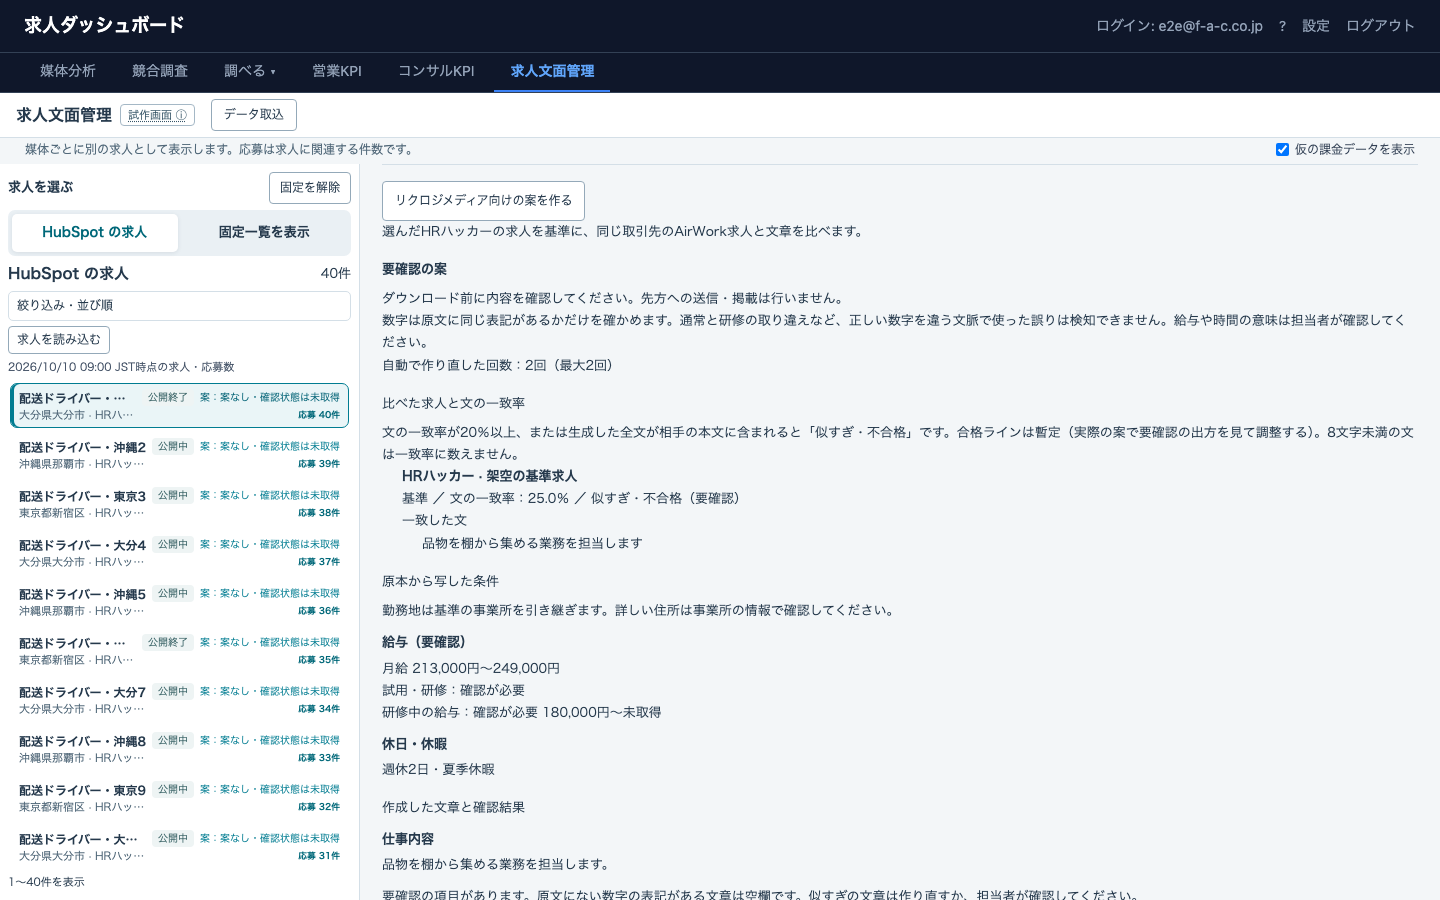
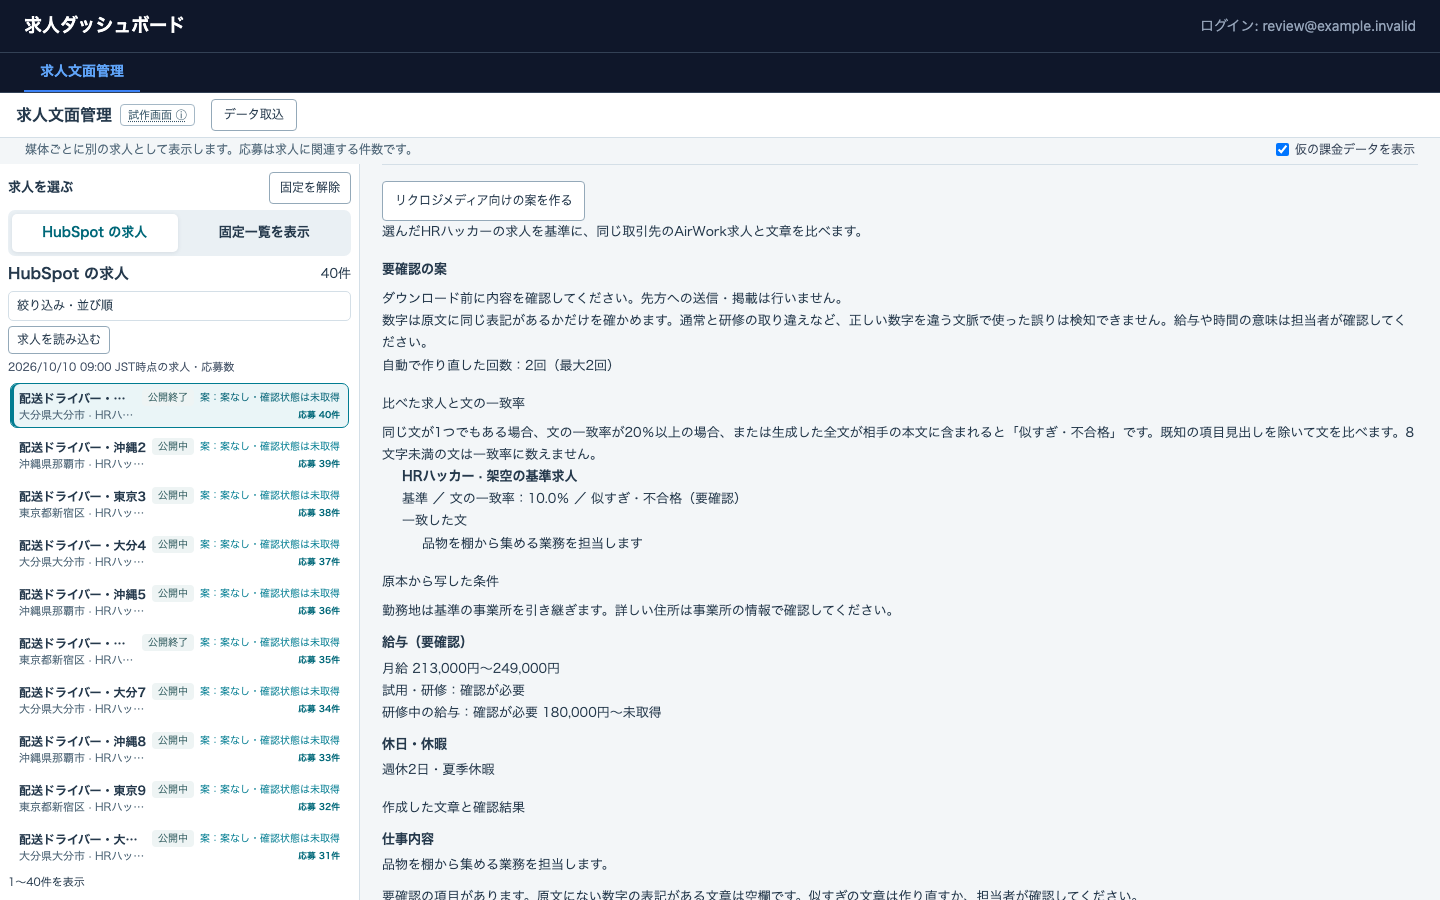
基準本文の見出しによる一致文の見逃しと深夜区分の表示を修正

diff --git a/frontend/src/screens/job-copy/RikuroziDraftPanel.tsx b/frontend/src/screens/job-copy/RikuroziDraftPanel.tsx
@@ -42,7 +42,7 @@ export function RikuroziDraftPanel({ listingId }: { listingId: string }) {
       <p>数字は原文に同じ表記があるかだけを確かめます。通常と研修の取り違えなど、正しい数字を違う文脈で使った誤りは検知できません。給与や時間の意味は担当者が確認してください。</p>
       <p>自動で作り直した回数：{String(draft.regeneration_count ?? 0)}回（最大2回）</p>
       <h4>比べた求人と文の一致率</h4>
-      <p>文の一致率が{(draft.threshold * 100).toLocaleString('ja-JP', { maximumSignificantDigits: 6 })}％以上、または生成した全文が相手の本文に含まれると「似すぎ・不合格」です。合格ラインは暫定（実際の案で要確認の出方を見て調整する）。{draft.min_sentence_chars === 0 ? '短い文もすべて数えます。' : `${draft.min_sentence_chars.toLocaleString('ja-JP')}文字未満の文は一致率に数えません。`}</p>
+      <p>同じ文が1つでもある場合、文の一致率が{(draft.threshold * 100).toLocaleString('ja-JP', { maximumSignificantDigits: 6 })}％以上の場合、または生成した全文が相手の本文に含まれると「似すぎ・不合格」です。既知の項目見出しを除いて文を比べます。{draft.min_sentence_chars === 0 ? '短い文もすべて数えます。' : `${draft.min_sentence_chars.toLocaleString('ja-JP')}文字未満の文は一致率に数えません。`}</p>
       <ul>{draft.comparisons.map((item, index) => <li key={index}><strong>{item.media} · {item.title}</strong><span>{item.publication} ／ 文の一致率：{item.ratio === null ? '未取得（要確認）' : `${(item.ratio * 100).toFixed(1)}％`}{item.too_similar && ' ／ 似すぎ・不合格（要確認）'}</span>
         {item.whole_match && <p>生成した全文が相手の本文に含まれています。</p>}
         {item.matched_sentences.length > 0 && <><span>一致した文</span><ul>{item.matched_sentences.map((sentence, sentenceIndex) => <li key={sentenceIndex}>{sentence}</li>)}</ul></>}

diff --git a/tests/e2e/job-copy-realdata-findings-scenarios.ts b/tests/e2e/job-copy-realdata-findings-scenarios.ts
@@ -64,7 +64,7 @@ test('作り直し回数と写した条件の表示を1440×900で確認する',
   await page.addInitScript(() => { localStorage.setItem('hrhr-job-copy-sidebar-pinned', 'true'); });
   await page.route('**/api/job-copy/listings/1/rikurozi-draft', route => route.fulfill({ json: {
     review_required: true, regeneration_count: 2, threshold: 0.2, min_sentence_chars: 8, csv: '',
-    comparisons: [{ media: 'HRハッカー', title: '架空の基準求人', publication: '基準', ratio: 0.25, too_similar: true, whole_match: false, matched_sentences: ['品物を棚から集める業務を担当します'] }],
+    comparisons: [{ media: 'HRハッカー', title: '架空の基準求人', publication: '基準', ratio: 0.1, too_similar: true, whole_match: false, matched_sentences: ['品物を棚から集める業務を担当します'] }],
     copied: [{ label: '給与', value: '月給 213,000円〜249,000円\n試用・研修：確認が必要\n研修中の給与：確認が必要 180,000円〜未取得', review: true, reason: null, missing_chunks: [] }, { label: '休日・休暇', value: '週休2日・夏季休暇', review: false, reason: null, missing_chunks: [] }],
     generated: [{ label: '仕事内容', value: '品物を棚から集める業務を担当します。', review: false, reason: null, missing_chunks: [] }],
   } }));
@@ -77,6 +77,8 @@ test('作り直し回数と写した条件の表示を1440×900で確認する',
   await expect(draft).toContainText('月給 213,000円〜249,000円');
   await expect(draft).toContainText('週休2日・夏季休暇');
   await expect(draft).toContainText('要確認の案');
+  await expect(draft).toContainText('同じ文が1つでもある場合');
+  await expect(draft).toContainText('文の一致率：10.0％ ／ 似すぎ・不合格');
   await draft.scrollIntoViewIfNeeded();
   await page.screenshot({ path: 'docs/screenshots/job-copy-realdata-findings/04-regeneration-1440.png' });
   await draft.getByText('原本から写した条件', { exact: true }).scrollIntoViewIfNeeded();

diff --git a/frontend/src/screens/job-copy/hrhCopy.ts b/frontend/src/screens/job-copy/hrhCopy.ts
@@ -81,7 +81,7 @@ export function hrhCopySections(body: string): BodySection[] {
   const payDetails = workTime();
   for (let n = 1; n <= 3; n++) {
     const conditionFields = [...fields].map(([key, value]) => [key, value.trim()] as const).filter(([key]) => conditional.exec(key)?.[1] === String(n));
-    const value = (suffix: string) => conditionFields.find(([key]) => conditional.exec(key)?.[2] === suffix)?.[1] ?? '';
+    const value = (suffix: string) => displayCode(`条件付き給与${String(n)} ${suffix}`, conditionFields.find(([key]) => conditional.exec(key)?.[2] === suffix)?.[1] ?? '');
     if (conditionFields.some(([, text]) => text)) {
       const amount = value('最小給与') || value('最大給与') ? composeSalary(get('給与形態'), value('最小給与'), value('最大給与')) : '';
       payDetails.push([value('条件') || '条件に応じた給与', value('深夜帯') ? `深夜の勤務：${value('深夜帯')}` : '', amount].filter(Boolean).join(' ／ '));

diff --git a/frontend/src/screens/job-copy/RikuroziDraftPanel.test.tsx b/frontend/src/screens/job-copy/RikuroziDraftPanel.test.tsx
@@ -15,7 +15,8 @@ describe('リクロジメディア向けの案', () => {
     expect(container.textContent).toContain('文の一致率：未取得（要確認）');
     expect(container.textContent).toContain('時給 1,200円〜1,400円');
     expect(container.textContent).toContain('8文字未満の文は一致率に数えません');
-    expect(container.textContent).toContain('合格ラインは暫定（実際の案で要確認の出方を見て調整する）');
+    expect(container.textContent).toContain('同じ文が1つでもある場合');
+    expect(container.textContent).toContain('既知の項目見出しを除いて文を比べます');
     expect(container.textContent).toContain('休日・休暇（要確認）');
     expect(container.textContent).toContain('日給1100円');
     expect(container.textContent).toContain('配送の手順を研修で学びます');

diff --git a/frontend/src/screens/job-copy/hrhCopy.test.tsx b/frontend/src/screens/job-copy/hrhCopy.test.tsx
@@ -91,3 +91,12 @@ it('does not show undefined numeric codes in the readable original or infer holi
   expect(text).toContain('180,000円');
   expect(text).not.toContain('999');
 });
+it('hides the numeric night-work code in every conditional salary group', () => {
+  for (const group of [1, 2, 3]) {
+    const body = `仕事内容：荷物の確認を担当します\n給与形態：月給\n条件付き給与${String(group)} 条件：夜の仕事\n条件付き給与${String(group)} 深夜帯：999\n条件付き給与${String(group)} 最小給与：213000`;
+    const text = hrhCopySections(body).map(section => section.text).join('\n');
+    expect(text).toContain('深夜の勤務：確認が必要');
+    expect(text).not.toContain('999');
+    expect(text).toContain('213,000円');
+  }
+});

diff --git a/src/job_gen/rikurozi.rs b/src/job_gen/rikurozi.rs
@@ -66,9 +66,22 @@ pub fn threshold(raw: Option<&str>) -> anyhow::Result<f64> {
     );
     Ok(n)
 }
-/// NFKCと前後の空白除去だけ。内部の空白や言い換えは保持する。
+/// 既知のCSV項目の行頭見出しだけを除く。値の内部空白や言い換えは保持する。
 fn sentence_text(text: &str) -> String {
-    text.nfkc().collect::<String>().trim().to_owned()
+    text.nfkc()
+        .collect::<String>()
+        .lines()
+        .map(|line| {
+            let trimmed = line.trim();
+            trimmed
+                .split_once(':')
+                .filter(|(key, _)| hrhacker::HRHACKER_COLUMNS.contains(&key.trim()))
+                .map_or(trimmed, |(_, value)| value.trim())
+        })
+        .collect::<Vec<_>>()
+        .join("\n")
+        .trim()
+        .to_owned()
 }
 pub fn sentences(text: &str, min_chars: usize) -> Vec<String> {
     sentence_text(text)
@@ -498,7 +511,9 @@ pub fn finish(
             title,
             media,
             publication,
-            too_similar: whole_match || ratio.is_some_and(|r| r >= threshold),
+            too_similar: whole_match
+                || !matched_sentences.is_empty()
+                || ratio.is_some_and(|r| r >= threshold),
             whole_match,
             matched_sentences,
             ratio,
@@ -758,7 +773,7 @@ mod tests {
         let mut s = source();
         s.comparisons[0].body = "一文目。二文目。別の文。".into();
         let mut generated_raw = json!({"job_description":generated});
-        for (limit, expected) in [(0.1999, true), (0.2, true), (0.2001, false)] {
+        for (limit, expected) in [(0.1999, true), (0.2, true), (0.2001, true)] {
             assert_eq!(
                 finish(&s, &generated_raw, limit, 0).unwrap().comparisons[1].too_similar,
                 expected
@@ -826,7 +841,7 @@ mod tests {
         s.comparisons[0].body = "未経験歓迎。配送の手順を学べます。".into();
         let draft = finish(&s, &generated_raw, limit, min_chars).unwrap();
         assert_eq!(draft.comparisons[1].ratio, Some(0.1));
-        assert!(!draft.comparisons[1].too_similar);
+        assert!(draft.comparisons[1].too_similar);
     }
     #[test]
     fn missing_original_conditions_and_unread_comparisons_remain_unknown() {
@@ -946,6 +961,70 @@ mod tests {
         assert_eq!(result.regeneration_count, 2);
         assert!(result.review_required);
         assert!(result.comparisons[1].too_similar);
+    }
+    #[tokio::test]
+    async fn labelled_baseline_copy_is_rewritten_even_below_ratio_threshold() {
+        let mut s = source();
+        let copied = "架空の倉庫で仕分け作業を行っていただける方を募集中です";
+        s.body = format!("仕事内容：{copied}。\n応募資格：必要な経験はありません。");
+        s.comparisons[0].body = "別の場所で荷物を届ける業務です。".into();
+        let generated = format!("{copied}。")
+            + &[
+                "あ", "い", "う", "え", "お", "か", "き", "く", "け", "こ", "さ", "し",
+            ]
+            .into_iter()
+            .map(|n| format!("新しい案内の文章その{n}を加えています。"))
+            .collect::<String>();
+        let draft = finish(&s, &json!({"job_description":generated}), 0.2, 8).unwrap();
+        assert_eq!(draft.comparisons[0].matched_sentences, vec![copied]);
+        assert!(draft.comparisons[0].ratio.unwrap() < 0.2);
+        assert!(draft.comparisons[0].too_similar);
+        let calls = std::sync::Mutex::new(Vec::new());
+        let result = run(&s, 0.2, 8, |prompt, _, _| {
+            let count = {
+                let mut calls = calls.lock().unwrap();
+                calls.push(prompt);
+                calls.len()
+            };
+            let generated = generated.clone();
+            async move {
+                Ok(if count == 1 {
+                    json!({})
+                } else {
+                    json!({"job_description":generated})
+                })
+            }
+        })
+        .await
+        .unwrap();
+        let calls = calls.lock().unwrap();
+        assert_eq!(calls.len(), 4);
+        for prompt in &calls[2..] {
+            assert!(prompt.contains("一致した文（引用）"));
+            assert!(prompt.contains(copied));
+        }
+        assert_eq!(result.regeneration_count, 2);
+        assert!(result.review_required);
+    }
+    #[test]
+    fn only_known_line_headings_are_removed_from_sentence_comparison() {
+        assert_eq!(
+            sentences(
+                "仕事内容：荷物の仕分けを担当します。\n応募資格:経験は問いません。",
+                8
+            ),
+            vec!["荷物の仕分けを担当します", "経験は問いません"]
+        );
+        assert_eq!(
+            sentences(
+                "注意：仕事の内容は異なります。\n担当する仕事内容：荷物の確認です。",
+                0
+            ),
+            vec![
+                "注意:仕事の内容は異なります",
+                "担当する仕事内容:荷物の確認です"
+            ]
+        );
     }
     #[tokio::test]
     async fn rewrite_stops_as_soon_as_similarity_passes() {

diff --git a/scripts/measure_sentence_overlap.py b/scripts/measure_sentence_overlap.py
@@ -14,15 +14,24 @@ import urllib.parse
 import urllib.request
 
 
+def sentence_text(text):
+    columns = set(json.loads((Path(__file__).resolve().parents[1] / "frontend/src/generated/jobgen/columns.json").read_text()))
+    lines = []
+    for line in unicodedata.normalize("NFKC", text).splitlines():
+        key, separator, value = line.strip().partition(":")
+        lines.append(value.strip() if separator and key.strip() in columns else line.strip())
+    return "\n".join(lines).strip()
+
+
 def sentences(text, minimum=0):
-    text = unicodedata.normalize("NFKC", text).strip()
+    text = sentence_text(text)
     return [part.strip() for part in re.split(r"[。!?\n\r]", text)
             if part.strip() and len(part.strip()) >= minimum]
 
 
 def overlap(generated, original, minimum=0):
-    generated = unicodedata.normalize("NFKC", generated).strip()
-    original = unicodedata.normalize("NFKC", original).strip()
+    generated = sentence_text(generated)
+    original = sentence_text(original)
     if not generated or not original:
         return None, False
     parts = sentences(generated, minimum)
